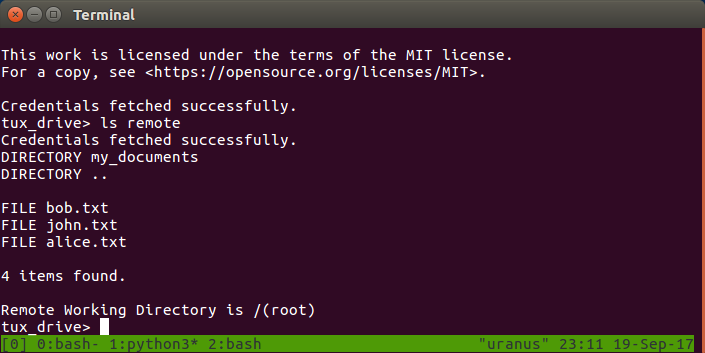
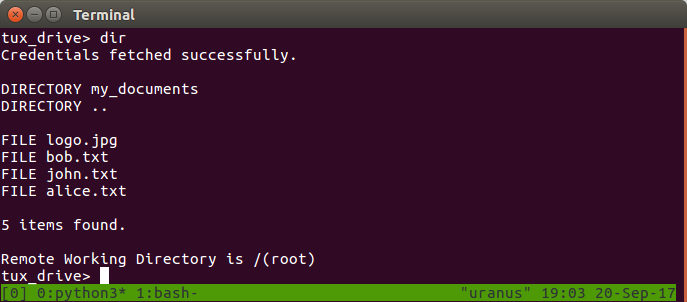
fixed some commands to conform to ftp syntax

Changed region(s): [[0.0, 0.0, 1.0, 0.2384], [0.0, 0.2682, 0.4279, 0.8046], [0.0, 0.8344, 1.0, 1.0]]

diff --git a/README.md b/README.md
@@ -44,21 +44,22 @@ An alternative/manual way of installing is to just download the `tuxdrive` pytho
 
 `tuxdrive` has a command line interface to the google drive interface similar to traditional unix tools like `ftp` and `sftp` (though not as extensive and comprehensive yet!).
 
-Once you start `tuxdrive` program, it will give you a `tux_drive>` prompt from which you can run the above commands. When you run `tuxdrive` the first time, it will open up the browser window and ask for permissions to access your google drive on your behalf. After that, you can start running commands. You can list your drive files using `ls remote` command for example:
+Once you start `tuxdrive` program, it will give you a `tux_drive>` prompt from which you can run the above commands. When you run `tuxdrive` the first time, it will open up the browser window and ask for permissions to access your google drive on your behalf. After that, you can start running commands. You can list your drive files using `ls` or `dir` command for example:
 
 ![Screenshot](https://github.com/prahladyeri/tuxdrive/raw/master/screenshot.png)
 
 
 Similarly, you can run `push some_local_file.txt` to upload it to your drive, or `rcd my_drive_folder` to change the remote drive. Here is the entire command list:
 
-	help: Shows this help facility.
-	ls remote: Lists all files and folders on drive.
-	ls local: Lists all files and folders in current directory.
-	pull <item>: Pulls the named file/folder from drive to current working directory.
-	push <item>: Pulls the named file/folder from current working directory to drive.
-	rwd: Print working directory (remote/drive)
-	rcd: Change working directory (remote/drive)
-	lwd: Print working directory (local)
+	help (or ?): Shows this help facility.
+	dir (or ls): Lists all files and folders on drive.
+	!dir (or !ls): Lists all files and folders in current directory.
+	put <item>: Pulls the named file/folder from drive to current working directory.
+	get <item>: Pulls the named file/folder from current working directory to drive.
+	rm <item>: Delete the named file/folder on remote path.
+	pwd: Print working directory (remote/drive)
+	cd: Change working directory (remote/drive)
+	lpwd: Print working directory (local)
 	lcd: Change working directory (local)
 	rdcache: Show remote directory mapping of id and folder paths.
 	rfcache: Show remote files mapping of id and folder paths.
